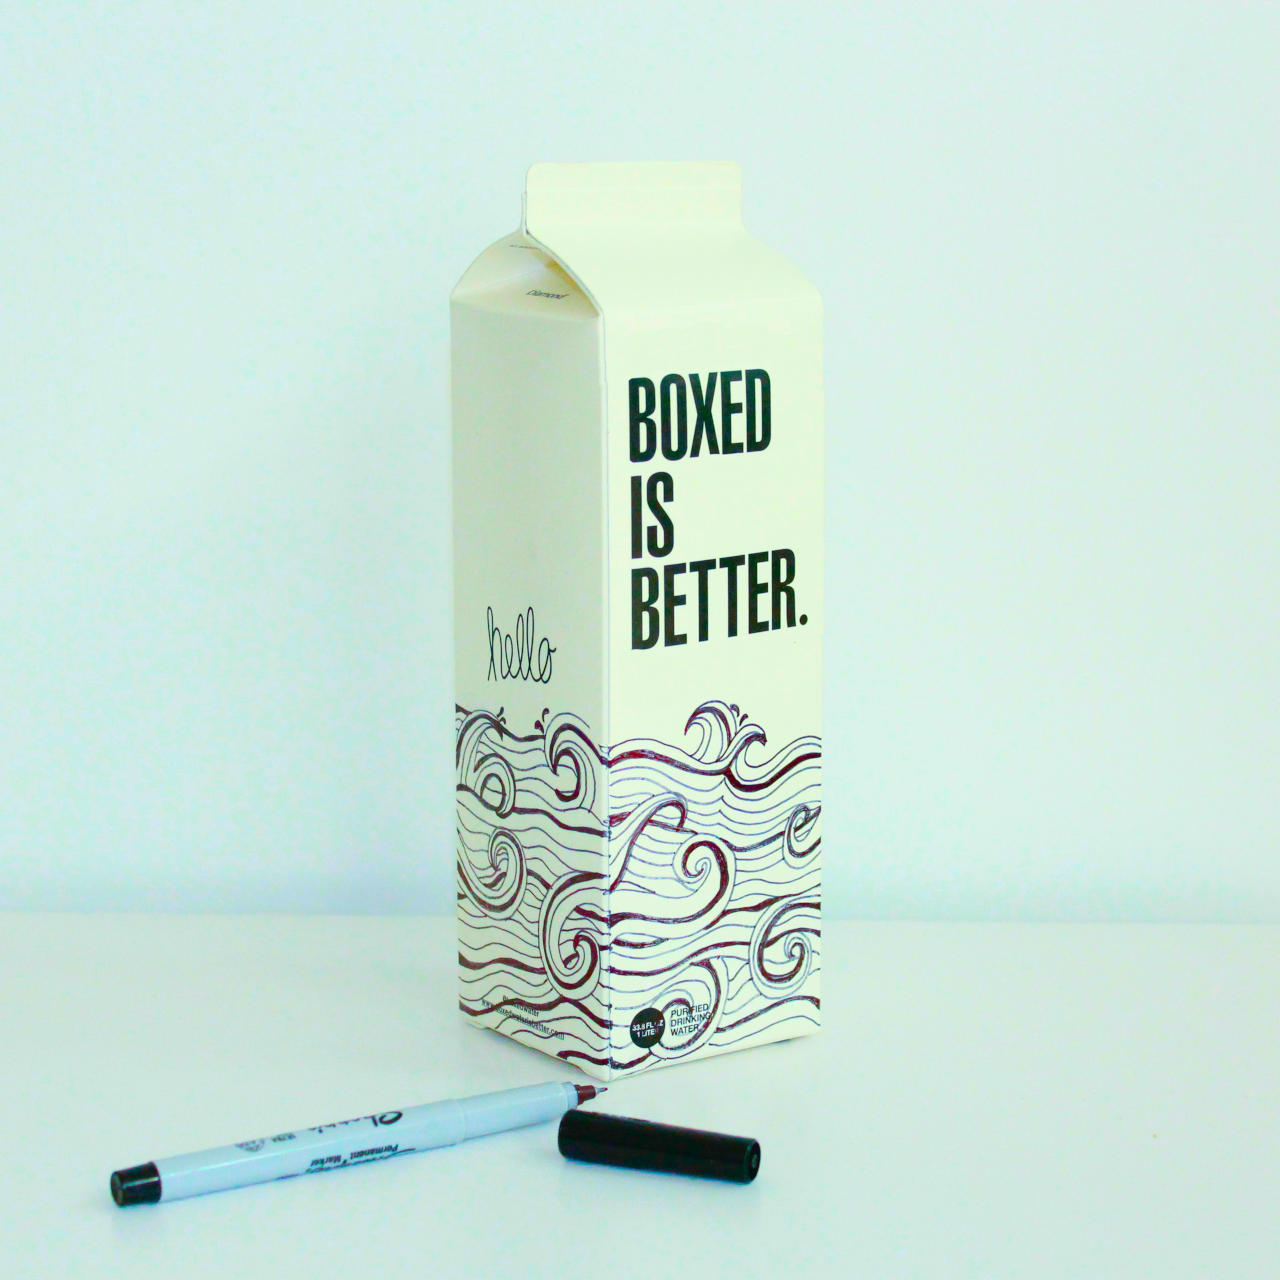
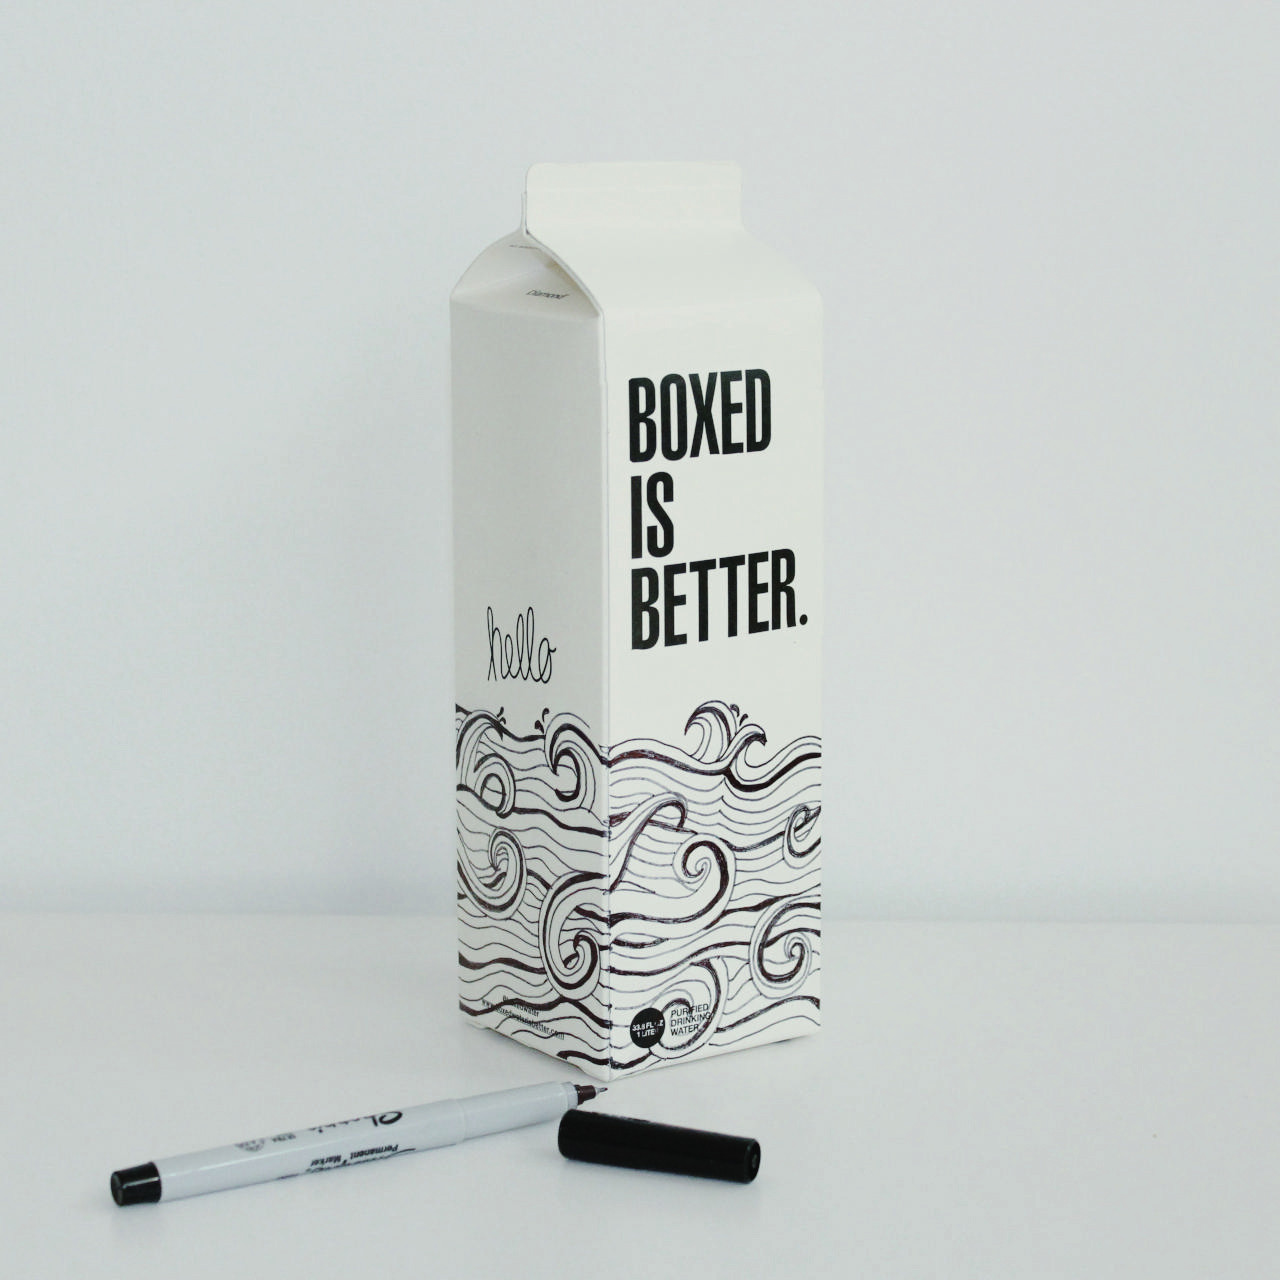
aadded some more img files and commented out unused sections

diff --git a/portfolio/index.html b/portfolio/index.html
@@ -48,28 +48,28 @@
 				<!-- Three -->
 					<section class="spotlight style1 orient-left content-align-left image-position-center onscroll-image-fade-in">
 						<div class="content">
-							<h2>Tempus adipiscing</h2>
+							<h2>Responsive Web Design</h2>
 							<p>Lorem ipsum dolor sit amet, consectetur adipiscing elit. Morbi id ante sed ex pharetra lacinia sit amet vel massa. Donec facilisis laoreet nulla eu bibendum. Donec ut ex risus. Fusce lorem lectus, pharetra pretium massa et, hendrerit vestibulum odio lorem ipsum dolor sit amet.</p>
 							<ul class="actions stacked">
 								<li><a href="#" class="button">Learn More</a></li>
 							</ul>
 						</div>
 						<div class="image">
-							<img src="images/spotlight02.jpg" alt="" />
+							<img src="images/black-iphone-dark.jpg" alt="Colorful reflections of various computer screens on the back of a black iPhone in a darkened room." />
 						</div>
 					</section>
 
 				<!-- Four -->
 					<section class="spotlight style1 orient-right content-align-left image-position-center onscroll-image-fade-in">
 						<div class="content">
-							<h2>Pharetra etiam nulla</h2>
+							<h2>UI Flexbox</h2>
 							<p>Lorem ipsum dolor sit amet, consectetur adipiscing elit. Morbi id ante sed ex pharetra lacinia sit amet vel massa. Donec facilisis laoreet nulla eu bibendum. Donec ut ex risus. Fusce lorem lectus, pharetra pretium massa et, hendrerit vestibulum odio lorem ipsum dolor sit amet.</p>
 							<ul class="actions stacked">
 								<li><a href="#" class="button">Learn More</a></li>
 							</ul>
 						</div>
 						<div class="image">
-							<img src="images/spotlight03.jpg" alt="" />
+							<img src="images/boxed-is-better.jpg" alt="A milk carton with the phrase 'boxed is better.' written on it." />
 						</div>
 					</section>
 
@@ -231,7 +231,7 @@
 					</section>
 
 				<!-- Six -->
-					<section class="wrapper style1 align-center">
+					<!-- <section class="wrapper style1 align-center">
 						<div class="inner">
 							<h2>Ipsum sed consequat</h2>
 							<p>Lorem ipsum dolor sit amet, consectetur adipiscing elit. Morbi id ante sed ex pharetra lacinia sit amet vel massa. Donec facilisis laoreet nulla eu bibendum. Donec ut ex risus. Fusce lorem lectus, pharetra pretium massa et, hendrerit vestibulum odio lorem ipsum.</p>
@@ -325,7 +325,7 @@
 							</form>
 
 						</div>
-					</section>
+					</section> -->
 
 				<!-- Footer -->
 					<footer class="wrapper style1 align-center">
